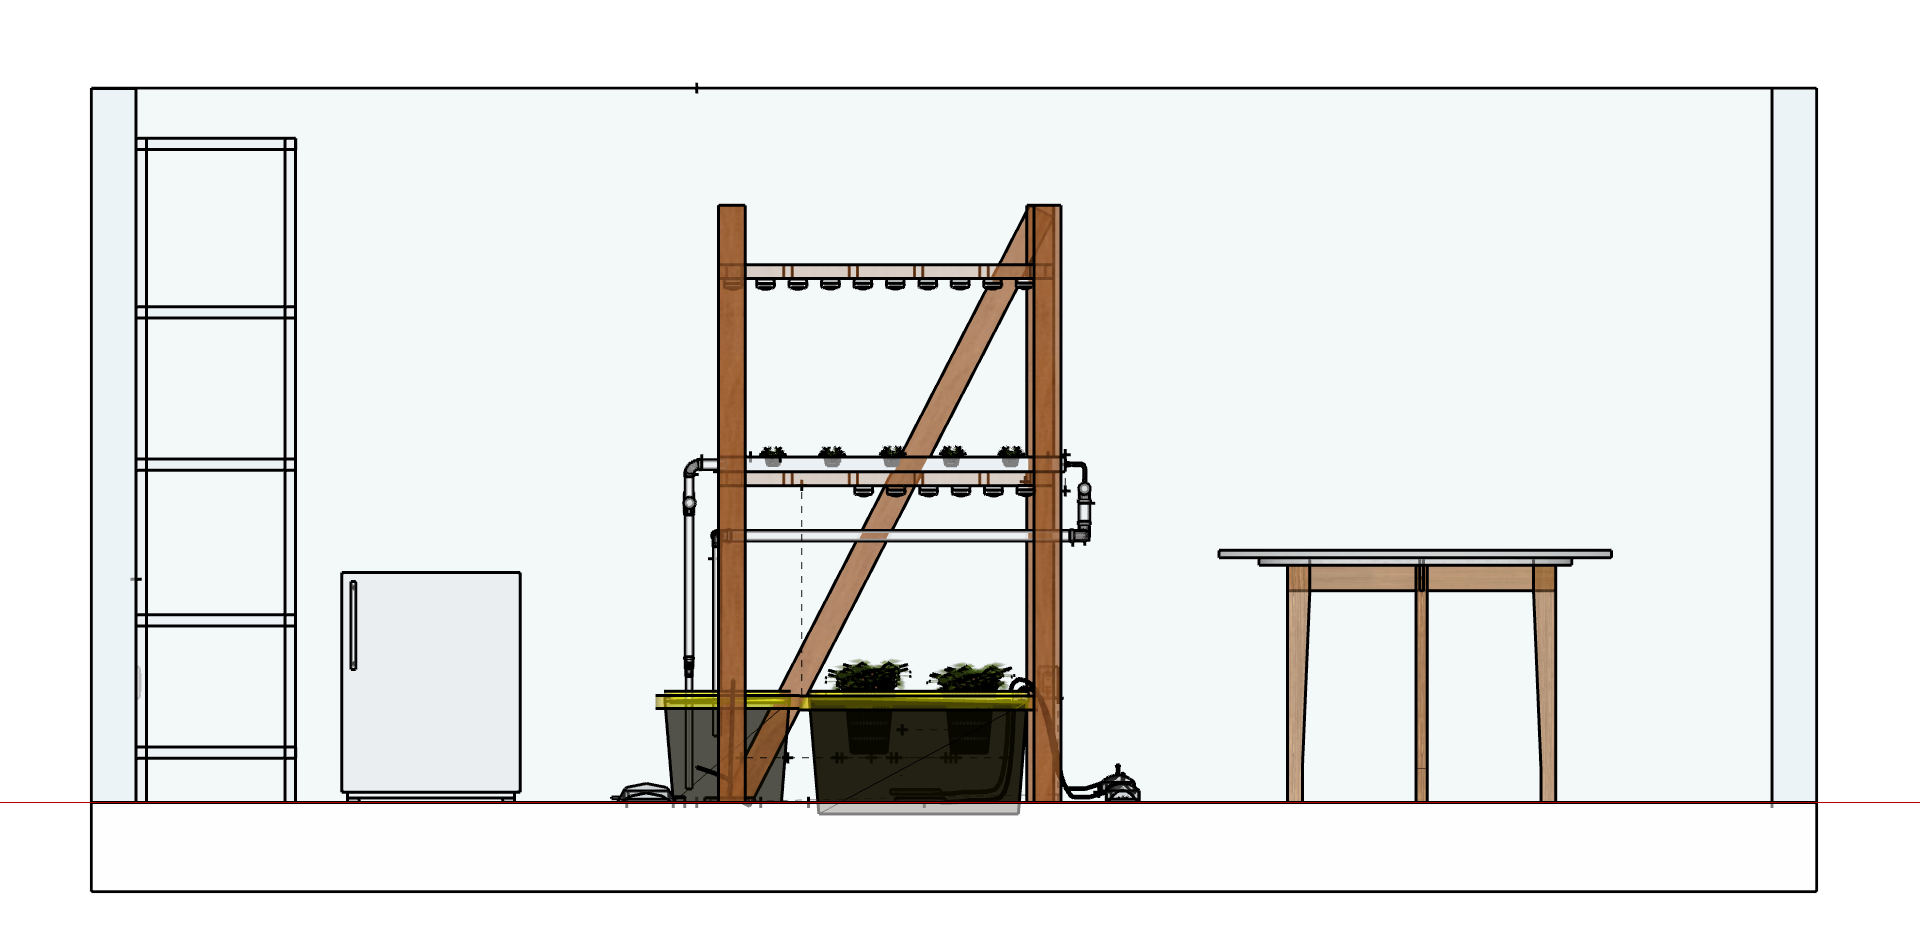
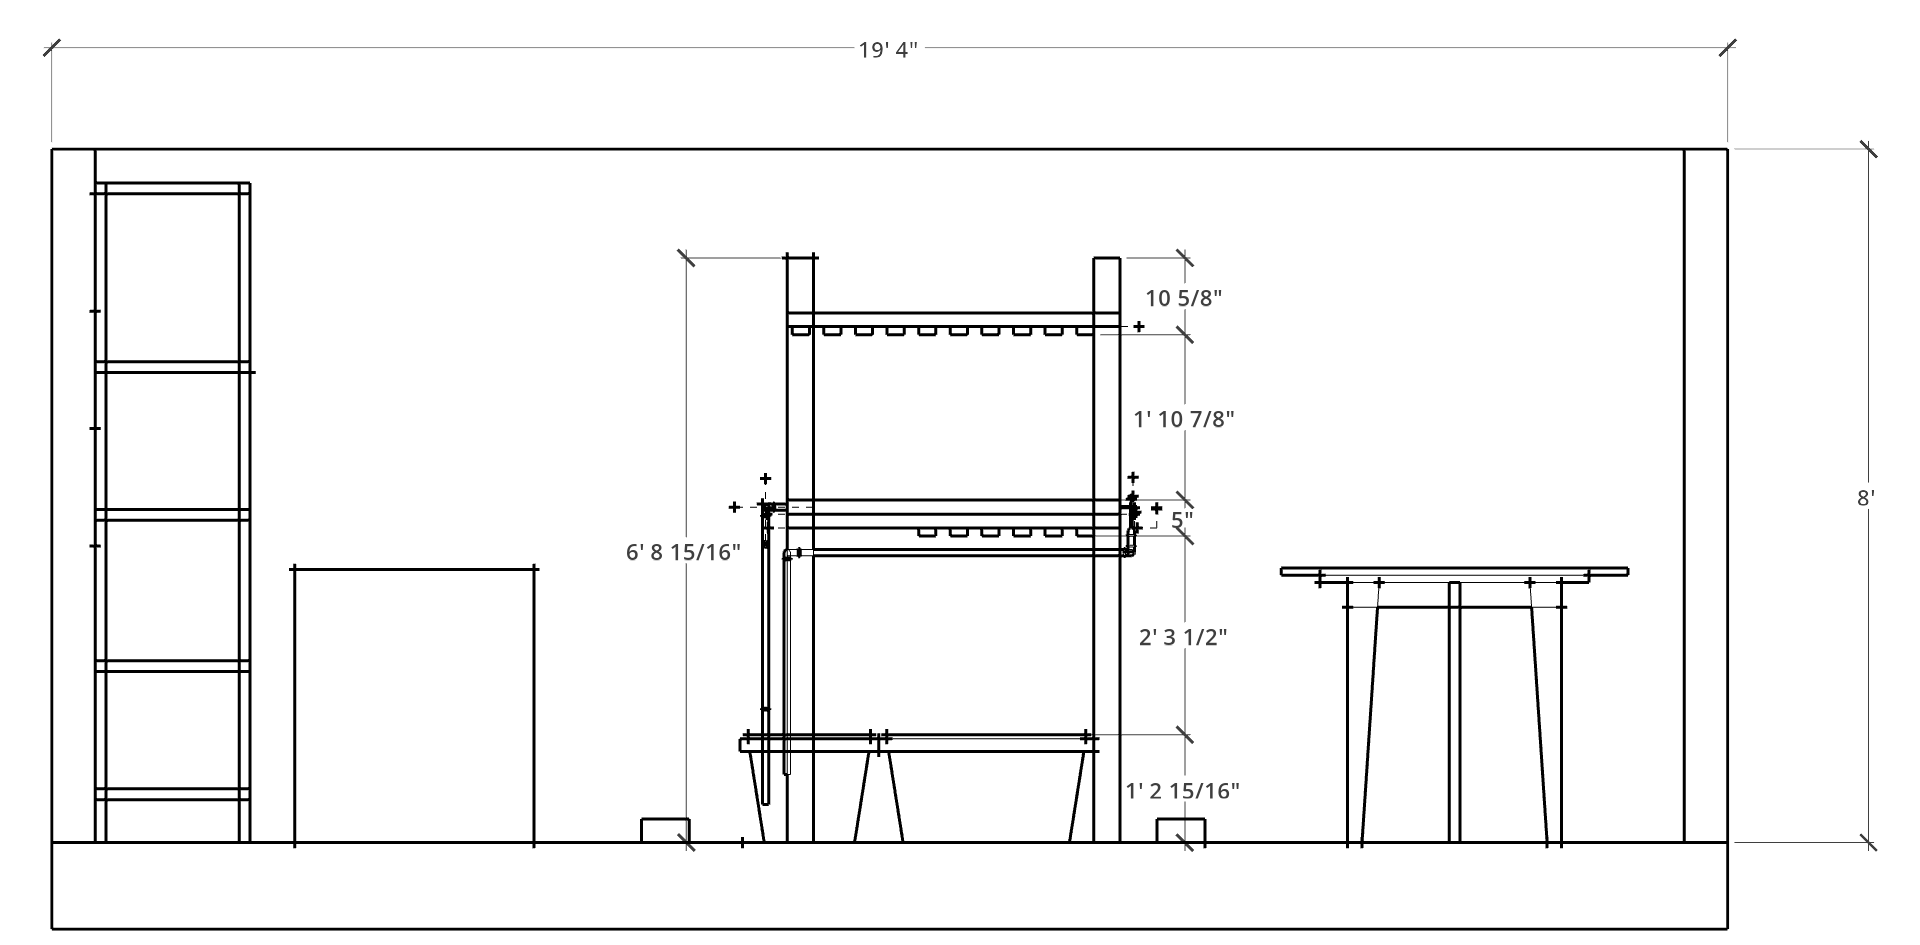
updated code

Changed region(s): [[0.0312, 0.0921, 0.9688, 0.9513], [0.0312, 0.982, 0.9062, 1.0], [0.4375, 0.0307, 0.4688, 0.0614]]

diff --git a/agtech-case-study.html b/agtech-case-study.html
@@ -388,14 +388,25 @@
             </div>
                 <p>For my DWC system, I will be growing four Alpine strawberry crops, held in net pots—two in each 7-gallon water reservoir. The net pots will consist of the Alpine Strawberry seeds in the rockwool, a growing medium that supports plant growth. The plant roots, after the germination stage, will be submerged in nutrient-rich water inside the reservoir. Additionally, to provide the necessary oxygen, an airstone connected to an air pump will oxygenate the water. Lastly, above the setup, LED light strips will serve as a substitute for natural light, another crucial element for plant growth.</p>
                 <p>Above the DWC system is the NFT system, where I will be growing Bloomsdale spinach crops. These will also be placed in net pots with rockwool, but they will be submerged in an NFT channel. Each channel holds a thin film of nutrient-rich water, which the plant roots absorb. Nutrients circulate through the system, flowing into the grow channel, and any unused nutrients return to the water reservoir, completing the cycle. This process uses an air pump, airstone, water pump, irrigation lines, and PVC pipes. Lastly, as with the DWC system, the NFT system will also require artificial LED lighting for this system build.</p>
-            <div class="drawings">
-                <img src="2D design - AGTech-floor-plan-resized1.png" alt="Hydroponics Floor Plan"/>
-            </div>
-            <div class="drawings">
-                <img src="2D design - AGTech-section-edited1.png" alt="Hydroponics Section"/>
-            </div>
-            <div class="drawings">
-                <img src="Hydroponics_Design_Build_Model-resized1.png" alt="project-image"/>
+            <div class="drawings-spacing">
+                <div class="steps1">
+                    <p><a href="https://app.sketchup.com/share/tc/northAmerica/_jIqCtxvAGw?stoken=zO2MoYGqYreU_NVEPlscGPoVdZKVbRRUA-nF0P4LhlPNfYjz2mNY1PnZ6GaVGaHd&source=web">Floor Plan</p></a>
+                </div>
+                <div class="drawings">
+                    <img src="2D design - AGTech-floor-plan-resized1.png" alt="Hydroponics Floor Plan"/>
+                </div>
+                <div class="steps1">
+                    <p><a href="https://app.sketchup.com/share/tc/northAmerica/_jIqCtxvAGw?stoken=zO2MoYGqYreU_NVEPlscGPoVdZKVbRRUA-nF0P4LhlPNfYjz2mNY1PnZ6GaVGaHd&source=web">Section</p></a>
+                </div>
+                <div class="drawings">
+                    <img src="2D design - AGTech-section-resized1.png" alt="Hydroponics Section"/>
+                </div>
+                <div class="steps1">
+                    <p><a href="https://app.sketchup.com/share/tc/northAmerica/LxbvC3x2Xh4?stoken=FpsgrvmKUw1cocpG2aleFLrJJ9-UTtM5QB530EdXSWHFiQ719TKuO81RYDPZesaf&source=web">3D Model</p></a>
+                </div>
+                <div class="drawings">
+                    <img src="Hydroponics_Design_Build_Model-resized1.png" alt="project-image"/>
+                </div>
             </div>
         </section>
 

diff --git a/agtech-case-study.css b/agtech-case-study.css
@@ -314,6 +314,20 @@ h26 {
     justify-content:center;
 }
 
+.steps1 {
+    display:flex;
+    justify-content:center;
+    font-weight:bold;
+    color:#728C69;
+}
+
+.drawings-spacing {
+    display:flex;
+    flex-direction:column;
+    align-content:space-evenly;
+    gap:30px;
+}
+
 
 /* footer code */
 
